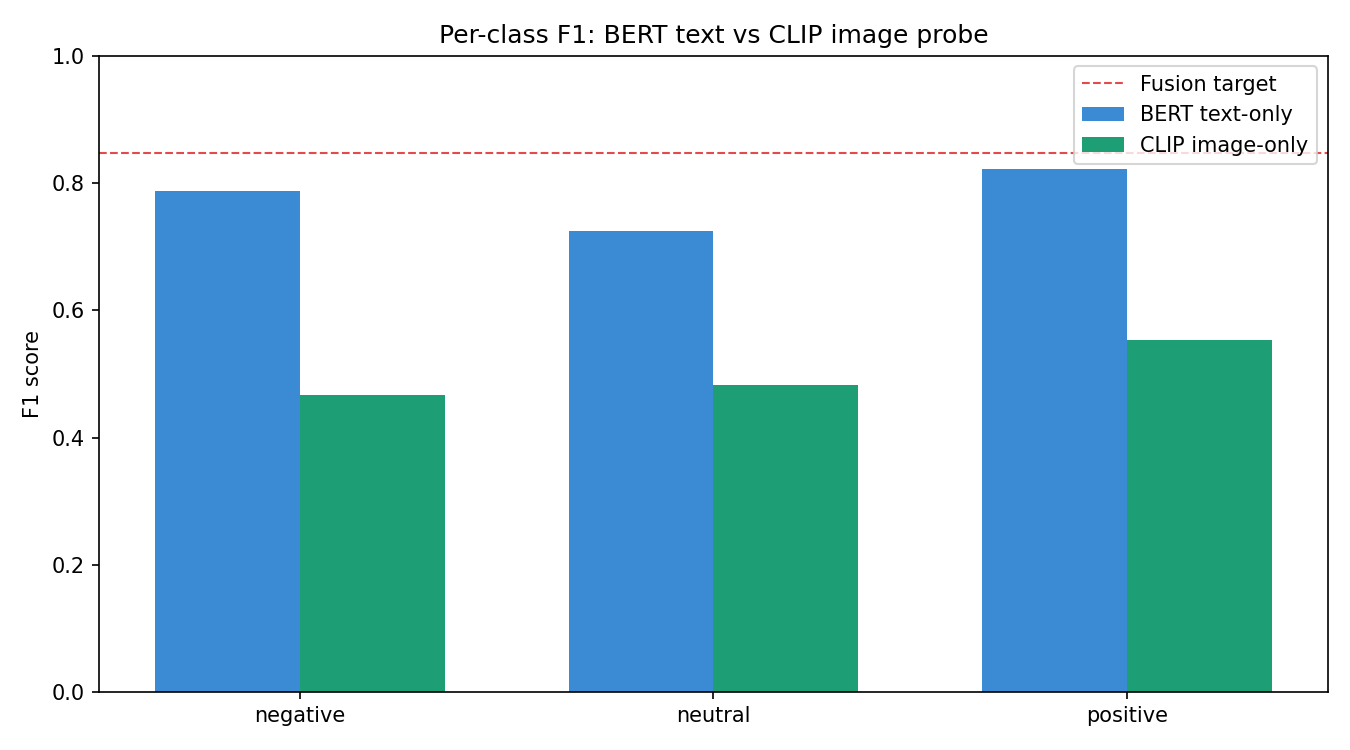
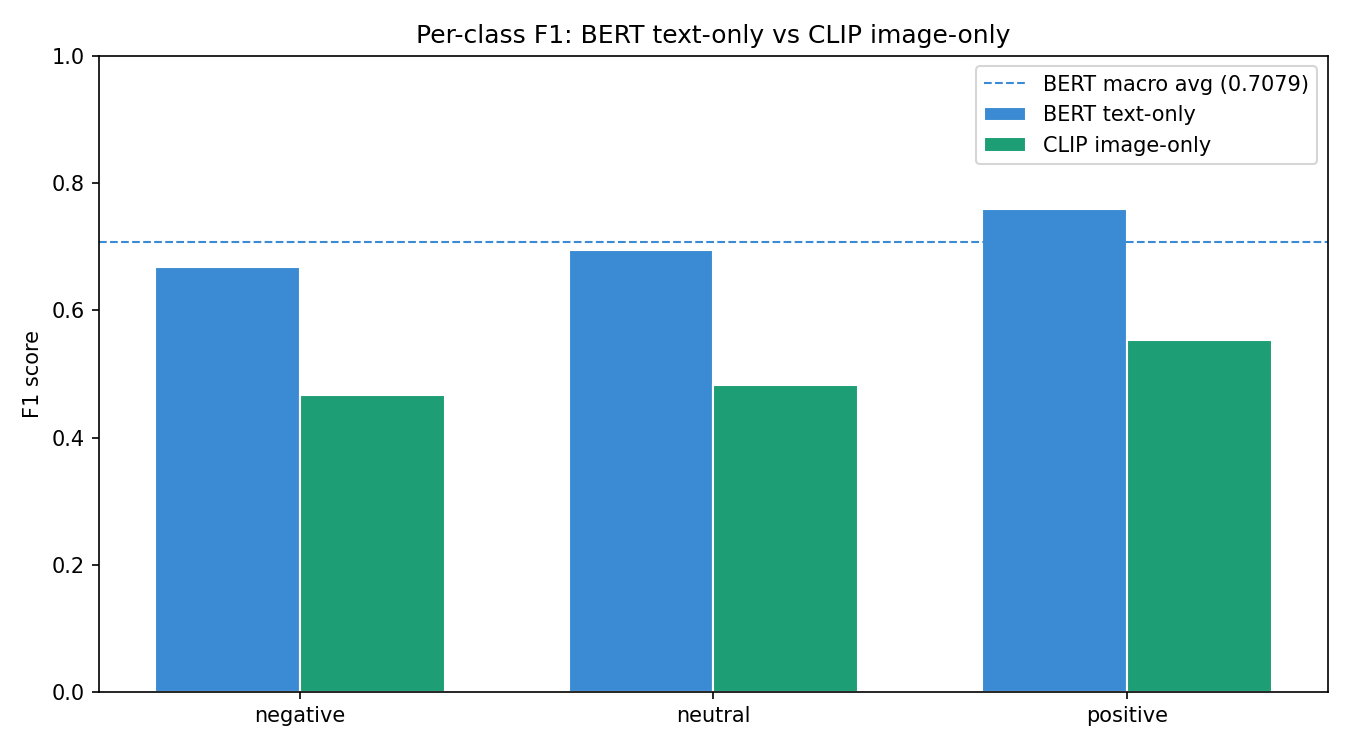
docs: add screenshots and plots to README

diff --git a/README.md b/README.md
@@ -16,6 +16,19 @@ A multimodal sentiment analysis pipeline combining **BERT** (text) and **CLIP** 
 The fusion model matches but does not significantly outperform the text-only baseline. This is a documented finding, not an oversight — see [Why the image branch contributes little](#why-the-image-branch-contributes-little).
 
 ---
+## Screenshots
+
+### Gradio demo
+![Gradio demo](screenshots/demo.png)
+
+### MVSA-Single EDA
+![MVSA EDA](outputs/plots/mvsa_eda/mvsa_eda.png)
+
+### Model comparison
+![Model comparison](outputs/plots/model_comparison.png)
+
+### Per-class F1 — BERT vs CLIP
+![BERT vs CLIP](outputs/plots/clip_image_vs_bert.png)
 
 ## Architecture
 
